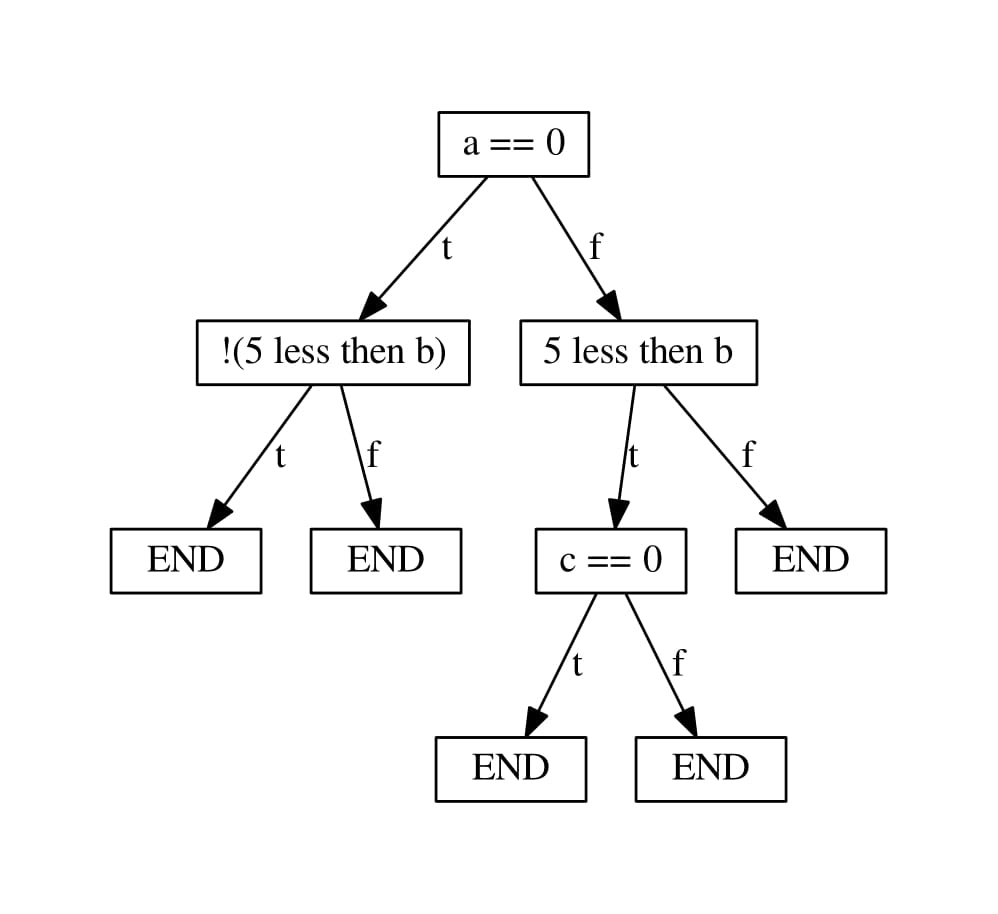
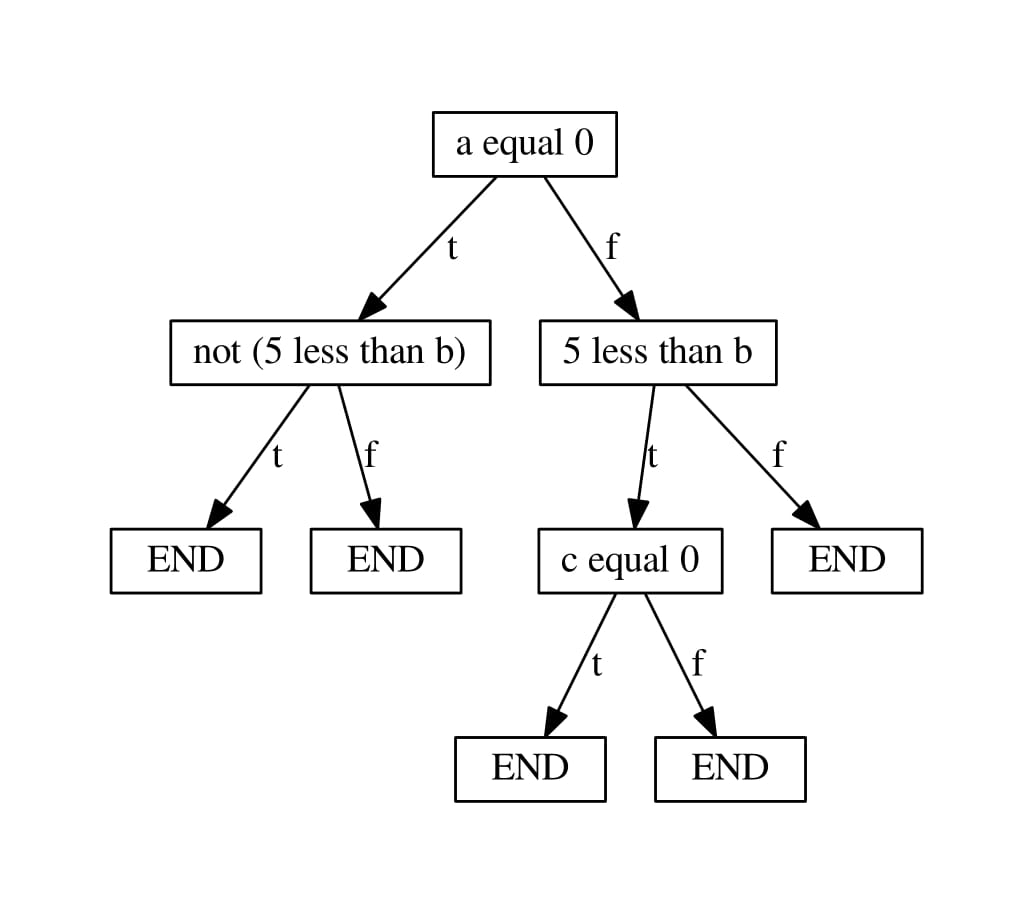
izmene

diff --git a/Parser/parser.py b/Parser/parser.py
@@ -310,19 +310,19 @@ def run(p):
 	global env
 	if type(p) == tuple:
 		if p[0] == 'Eq' and p[1] == 'false':
-			return '!(' + run(p[2]) + ')'
+			return 'not (' + run(p[2]) + ')'
 		elif p[0] == 'Eq':
-			return run(p[1]) + ' == ' + run(p[2])
+			return run(p[1]) + ' equal ' + run(p[2])
 		elif p[0] == 'Ne':
-			return run(p[1]) + ' != ' + run(p[2])
+			return run(p[1]) + ' not equal ' + run(p[2])
 		elif p[0] == 'Ult' or p[0] == 'Slt':
-			return run(p[1]) + ' less then ' + run(p[2])
+			return run(p[1]) + ' less than ' + run(p[2])
 		elif p[0] == 'Ule' or p[0] == 'Sle':
-			return run(p[1]) + ' less then or equal ' + run(p[2])
+			return run(p[1]) + ' less than or equal ' + run(p[2])
 		elif p[0] == 'Ugt' or p[0] == 'Sgt':
-			return run(p[1]) + ' greater then ' + run(p[2])
+			return run(p[1]) + ' greater than ' + run(p[2])
 		elif p[0] == 'Uge' or p[0] == 'Sge':
-			return run(p[1]) + ' greater then or equal ' + run(p[2])
+			return run(p[1]) + ' greater than or equal ' + run(p[2])
 		elif p[0] == 'var':
 		 	return p[1]
 		elif p[0] == 'Add':
@@ -336,11 +336,11 @@ def run(p):
 		elif p[0] == 'URem' or p[0] == 'SRem':
 		 	return run(p[1]) + ' % ' + run(p[2])
 		elif p[0] == 'And':
-		 	return run(p[1]) + ' /\ ' + run(p[2])
+		 	return run(p[1]) + ' and ' + run(p[2])
 		elif p[0] == 'Or':
-		 	return run(p[1]) + ' \/ ' + run(p[2])
+		 	return run(p[1]) + ' or ' + run(p[2])
 		elif p[0] == 'Xor':
-		 	return run(p[1]) + ' ^ ' + run(p[2])
+		 	return run(p[1]) + ' exclusive or ' + run(p[2])
 		elif p[0] == 'Shl':
 		 	return run(p[1]) + ' << ' + run(p[2])
 		elif p[0] == 'LShr' or p[0] == 'AShr':

diff --git a/Primeri C programa za pustanje/bad_even.c b/Primeri C programa za pustanje/bad_even.c
@@ -1,0 +1,26 @@
+#include <stdio.h>
+#include <assert.h>
+#include <klee/klee.h>
+
+/* funkcija vraca 1 ukoliko je x paran, inace 0 */
+int bad_even(int x) {
+  if (x%2==0)
+    return 1;
+  if(x%2==1)
+    return 0;
+
+  klee_assert(0); // signalizirace gresku  
+  return 1; // sada je naredba dostizna
+}
+
+int main() {
+  int x;
+  /* oznacavamo da je x simbolicka promenljiva:
+	argumenti funkcije:
+		- adresa promenljive
+		- velicina
+		- ime (proizvoljna niska karktera)
+  */
+  klee_make_symbolic(&x, sizeof(x), "x");
+  return bad_even(x);
+}

diff --git a/Primeri C programa za pustanje/even_sym.c b/Primeri C programa za pustanje/even_sym.c
@@ -1,0 +1,26 @@
+#include <stdio.h>
+#include <assert.h>
+#include "klee/klee.h"
+
+int even(){
+	int a,b,c;
+	klee_make_symbolic(&a, sizeof(a), "a");
+	klee_make_symbolic(&b, sizeof(b), "b");
+	klee_make_symbolic(&c, sizeof(c), "c");
+	int x = 0, y = 0, z = 0;
+
+	if(a) x = -2;	
+	if(b < 5) {
+		if(! a && c) { y = 1; }
+		z = 2;
+	}
+
+	klee_assert(x+y+z != 3);
+	return 1;
+
+}
+
+int main(int argc, char* argv[]){
+	int x;
+	return even();
+}
